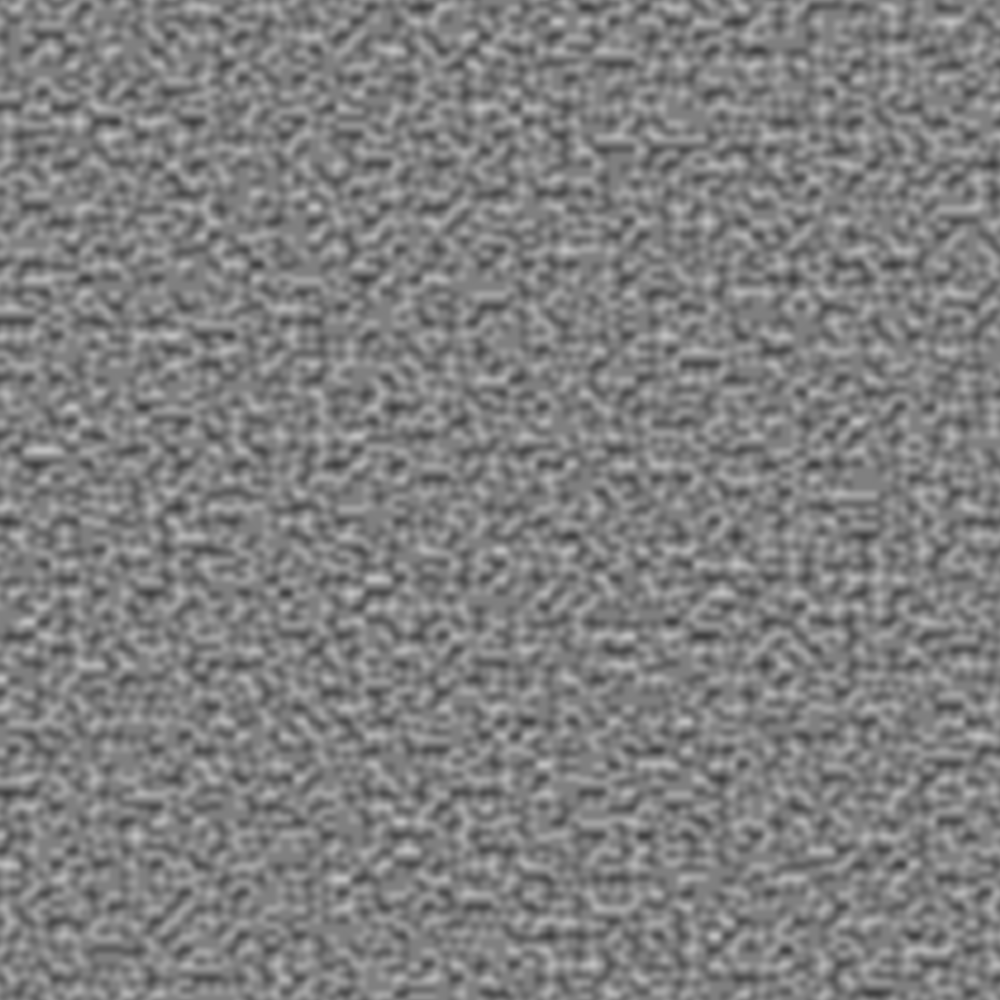
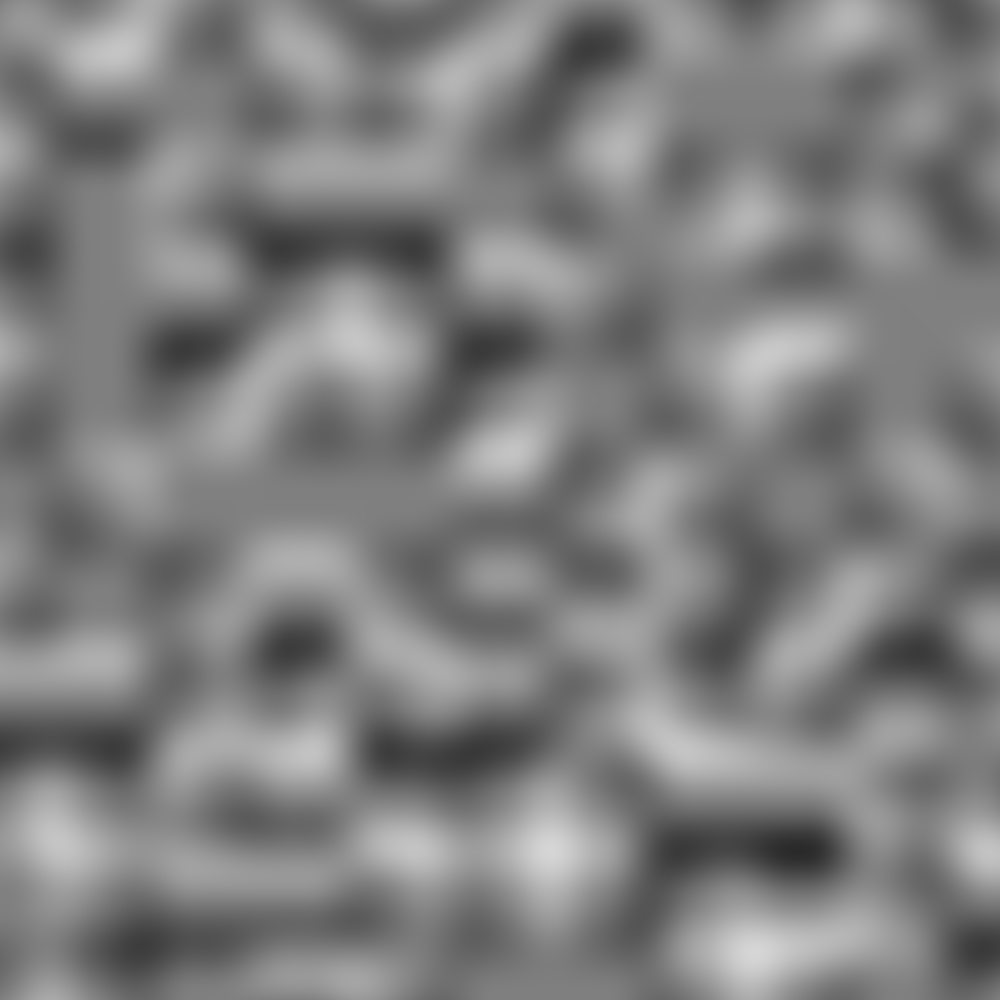
coments

diff --git a/src/Perlin.cs b/src/Perlin.cs
@@ -2,7 +2,7 @@ namespace PerlinNoise;
 
 public class Perlin
 {
-	// Generate Octave Perlin noise value for coordinates x, y
+	// Generate Octave Perlin noise value for double coordinates x, y
 	public double OctavePerlin(double x, double y, int octaves, double persistence, double lacunarity)
 	{
 
@@ -56,21 +56,21 @@ public class Perlin
 	// Calculate Perlin noise value for coordinates x, y
 	public double CalculatePerlin(double x, double y)
 	{
-		int X = (int)Math.Floor(x) & 255, 
+		int X = (int)Math.Floor(x) & 255, // Keep the first 8 bits of the integer (coerce to 0-255)
 			Y = (int)Math.Floor(y) & 255;
 
-		x -= Math.Floor(x);
+		x -= Math.Floor(x); // Get the decimal part of the number
 		y -= Math.Floor(y);
 
-		double u = Fade(x),
+		double u = Fade(x), // Compute the fade curves for x, y
 			   v = Fade(y);
 
-		int A = p[X] + Y, AA = p[A], AB = p[A + 1],
+		int A = p[X] + Y, AA = p[A], AB = p[A + 1],  // Hash coordinates of the 4 corners of the unit square
 			B = p[X + 1] + Y, BA = p[B], BB = p[B + 1];   
 		
-		return Lerp(v,
-				Lerp(u, Grad(p[AA], x, y), Grad(p[BA], x - 1, y)),
-				Lerp(u, Grad(p[AB], x, y - 1), Grad(p[BB], x - 1, y - 1)));
+		return Lerp(v,											 			
+				Lerp(u, Grad(p[AA], x, y), Grad(p[BA], x - 1, y)),			
+				Lerp(u, Grad(p[AB], x, y - 1), Grad(p[BB], x - 1, y - 1))); 
 	}
 
 	private static double Fade(double t) { return t * t * t * (t * (t * 6 - 15) + 10); } // 6t^5 - 15t^4 + 10t^3 (smooth interpolation curve)
@@ -80,6 +80,6 @@ public class Perlin
 		int h = hash & 15;									// CONVERT LO 4 BITS OF HASH CODE
 		double u = h < 8 ? x : y,							// into 12 gradient directions
 			   v = h < 4 ? y : h == 12 || h == 14 ? x : y;
-		return ((h & 1) == 0 ? u : -u) + ((h & 2) == 0 ? v : -v);
+		return ((h & 1) == 0 ? u : -u) + ((h & 2) == 0 ? v : -v); // Add blended results from 2 corners of the square
 	}
 }

diff --git a/src/ImageGenerator.cs b/src/ImageGenerator.cs
@@ -21,7 +21,7 @@ public class ImageGenerator
 
         double [][] noise = new double[size][];
         
-        double scale = 0.07;
+        double scale = 0.01;
         for (int i = 0; i < size; i++)
         {
             noise[i] = new double[size];
@@ -30,7 +30,7 @@ public class ImageGenerator
                 noise[i][j] = perlin.CalculatePerlin(i * scale, j * scale);
 
                 // Normalize noise value to [-1, 1]
-                noise[i][j] /= 1.15;
+                noise[i][j] /= 1.5;
             }
         }
         
@@ -39,20 +39,20 @@ public class ImageGenerator
     private static double[][] GenerateFractalNoise()
     {
         Perlin perlin = new();
-        perlin.SetSeed(1);
+        perlin.SetSeed(0);
         int size = 1000;
 
         double [][] noise = new double[size][];
         
-        double scale = 0.007;
+        double scale = 0.001;
         for (int i = 0; i < size; i++)
         {
             noise[i] = new double[size];
             for (int j = 0; j < size; j++)
             {
-                noise[i][j] = perlin.OctavePerlin(i * scale, j * scale, 9, 0.5, 2);
+                noise[i][j] = perlin.OctavePerlin(i * scale, j * scale, 8, .5, 1.75);
                 // Normalize noise value to [-1, 1] 
-                noise[i][j] /= 1.15;
+                noise[i][j] /= 1.5;
                 
             }
         }
@@ -81,7 +81,7 @@ public class ImageGenerator
         }
         
         //visualize map on black and white pixels
-        SKBitmap bitmap = new SKBitmap(size, size);
+        SKBitmap bitmap = new(size, size);
         for (int i = 0; i < size; i++)
         {
             for (int j = 0; j < size; j++)
